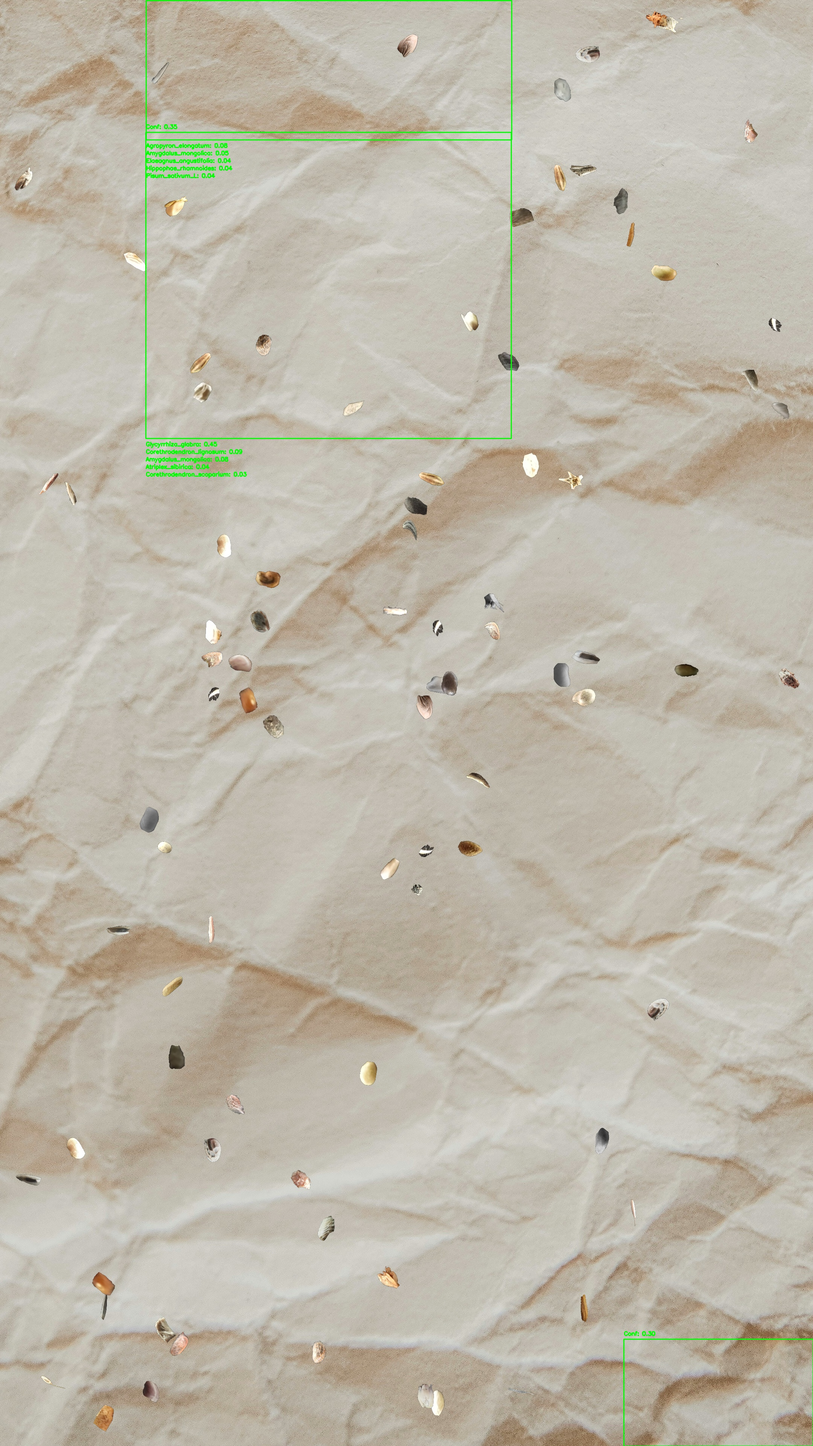
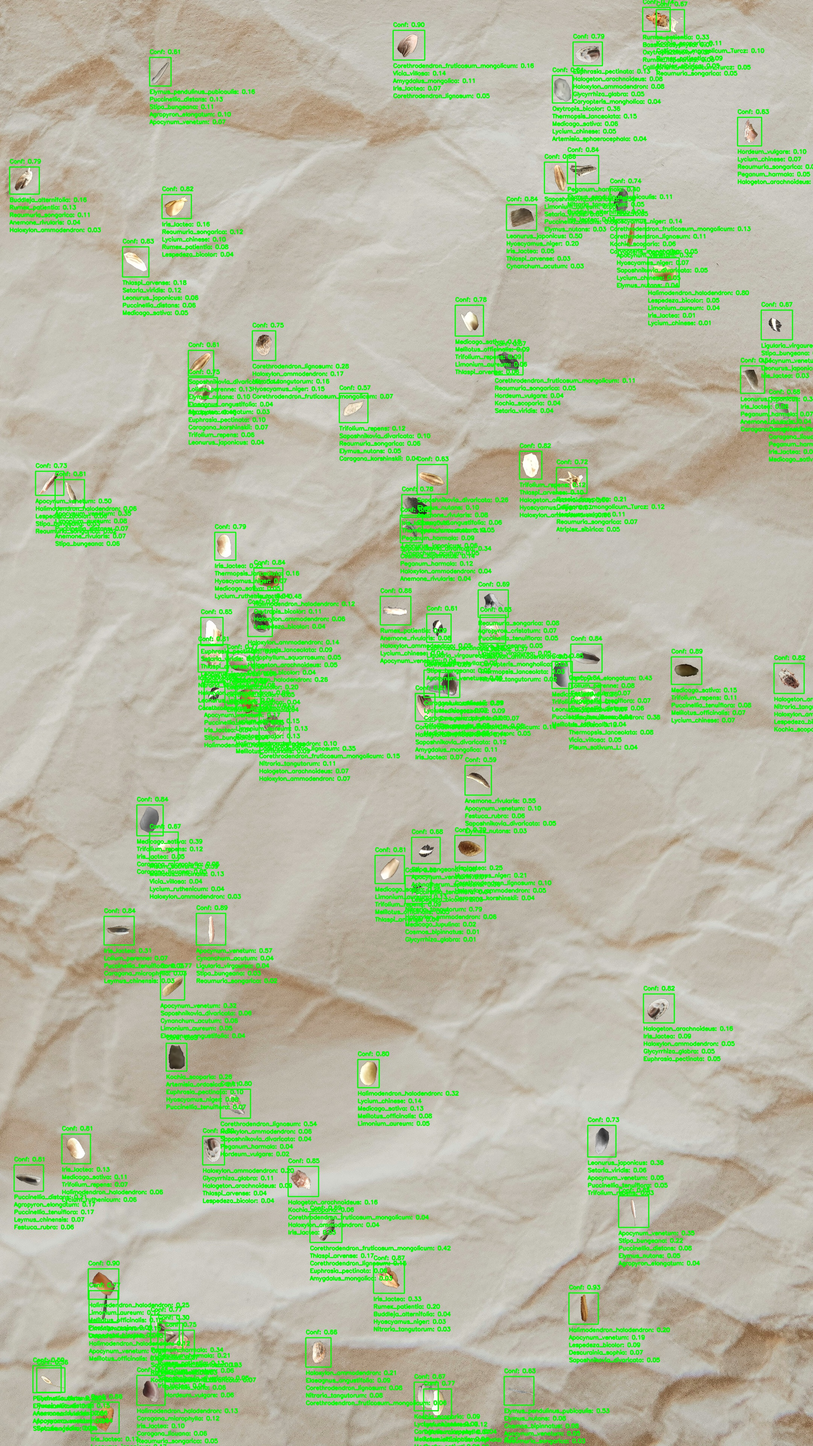
Pre-evaluation checkpoint

diff --git a/Pipeline.py b/Pipeline.py
@@ -13,63 +13,63 @@ def main():
     # dls.load_data_classification(0.9, 0.1001)# the test set wont be used so it does not matter what we set it to
     # dls.load_data_detection(0.8, 0.05, 0.15)# the test set wont be used so it does not matter what we set it to
     # mls = ModelLoadingStation()
-    # mls.load_new_classification_model()
+    # # mls.load_new_classification_model()
     # mls.load_new_detection_standard_model()
 
-    #print("Training")
-    #ts = TrainingStation(None, mls.cur_classification_model)
-    #ts = TrainingStation(mls.cur_detection_model, None)
-    #ts.trainClassification(dls.dl_train_classification, dls.dl_validate_classification, dls.dl_test_classification, dls.num_classes)
-    #ts.trainDetection()
-    #print("Pipeline finished")
+    # print("Training")
+    # ts = TrainingStation(None, mls.cur_classification_model)
+    # ts = TrainingStation(mls.cur_detection_model, None)
+    # #ts.trainClassification(dls.dl_train_classification, dls.dl_validate_classification, dls.dl_test_classification, dls.num_classes)
+    # #ts.trainDetection()
+    # print("Pipeline finished")
 
-    # print("Starting inference pipeline")
-    # print("looking for input image")
-    # dls = DataLoadingStation()
-    # dls.load_data_classification(0.9, 0.1001)# this is needed just to get the indexed classes
-    # image = dls.load_inference_image("testInput.jpg")
-    # mls = ModelLoadingStation()
-    # mls.load_saved_classification_model()
-    # mls.load_saved_detection_model()
-
-    #print("Running inference")
-    #inferS = InferenceStation()
-    #print(inferS.inferOnClassification(image, mls.cur_classification_model, dls))
-    #inferS.inferOnDetection("testInput.jpg", mls.cur_detection_model)
-    #inferS.inferOnCombined("data/syntheticData/images/test/image5901588_0.jpg", mls.cur_detection_model, mls.cur_classification_model, dls, "testSyntheticOne.jpg")
-    #inferS.inferOnSynthetic("data/syntheticData/data.yaml",mls.cur_detection_model, mls.cur_classification_model, dls, "testOutputSynthetic.jpg")
-
-
-
-    print("Loading data")
+    print("Starting inference pipeline")
+    print("looking for input image")
     dls = DataLoadingStation()
-    dls.load_data_classification(0.9, 0.1001)# the test set wont be used so it does not matter what we set it to
-    #dls.load_data_detection(0.8, 0.05, 0.15)# the test set wont be used so it does not matter what we set it to
+    dls.load_data_classification(0.9, 0.1001)# this is needed just to get the indexed classes
+    #image = dls.load_inference_image("testInput.jpg")
     mls = ModelLoadingStation()
     mls.load_saved_classification_model()
-    #mls.load_saved_detection_model()
+    mls.load_saved_detection_model(4) #2 is 2500x2500, 3 is 1600x1600, 4 is 1280x1280 and 5 is 960x960
 
+    print("Running inference")
     inferS = InferenceStation()
-    print("Analyzing performance")
+    # print(inferS.inferOnClassification(image, mls.cur_classification_model, dls))
+    # inferS.inferOnDetection("testInput.jpg", mls.cur_detection_model)
+    #inferS.inferOnCombined("data/syntheticData/images/test/image5901588_0.jpg", mls.cur_detection_model, mls.cur_classification_model, dls, "testSyntheticOne.jpg")
+    # inferS.inferOnSynthetic("data/syntheticData/data.yaml",mls.cur_detection_model, mls.cur_classification_model, dls, "testOutputSynthetic.jpg")
+
+
+
+    # print("Loading data")
+    # dls = DataLoadingStation()
+    # dls.load_data_classification(0.9, 0.1001)# the test set wont be used so it does not matter what we set it to
+    # #dls.load_data_detection(0.8, 0.05, 0.15)# the test set wont be used so it does not matter what we set it to
+    # mls = ModelLoadingStation()
+    # mls.load_saved_classification_model()
+    # #mls.load_saved_detection_model()
+
+    # inferS = InferenceStation()
+    # print("Analyzing performance")
     #t test for classification and detection on n images of their respective datasets
     # check_stats_classification(mls.cur_classification_model, dls, inferS, "cpu")
 
-    print("Quantizing")
-    #quantize for various dtypes
-    quantS = QuantStation(dls, inferS)
-    quantS.set_class_model(mls.cur_classification_model)
-    check_stats_classification(mls.cur_classification_model, dls, inferS, "cpu")
-    print_size_of_model(mls.cur_classification_model)
-    # #quantize both dynamically and statically for int8
-    quantized_temp = quantS.dynamic_quant_class(mls.load_retrieve_saved_class_model(),dtype = torch.qint8)
-    print("Quantized for int8 dynamically...")
-    check_stats_classification(quantized_temp, dls, inferS, "cpu")
-    print_size_of_model(quantized_temp)
+    # print("Quantizing")
+    # #quantize for various dtypes
+    # quantS = QuantStation(dls, inferS)
+    # quantS.set_class_model(mls.cur_classification_model)
+    # check_stats_classification(mls.cur_classification_model, dls, inferS, "cpu")
+    # print_size_of_model(mls.cur_classification_model)
+    # # #quantize both dynamically and statically for int8
+    # quantized_temp = quantS.dynamic_quant_class(mls.load_retrieve_saved_class_model(),dtype = torch.qint8)
+    # print("Quantized for int8 dynamically...")
+    # check_stats_classification(quantized_temp, dls, inferS, "cpu")
+    # print_size_of_model(quantized_temp)
 
-    quantized_temp = quantS.static_quant_class(mls.load_retrieve_saved_class_model(), dls)
-    print("Quantized for int8 statically...")
-    check_stats_classification(quantized_temp, dls, inferS, "cpu")
-    print_size_of_model(quantized_temp)
+    # quantized_temp = quantS.static_quant_class(mls.load_retrieve_saved_class_model(), dls)
+    # print("Quantized for int8 statically...")
+    # check_stats_classification(quantized_temp, dls, inferS, "cpu")
+    # print_size_of_model(quantized_temp)
 
     #print_param_types(quantized_temp)
 

diff --git a/InferenceStation.py b/InferenceStation.py
@@ -8,9 +8,11 @@ from DataLoadingStation import DataLoadingStation
 from torchvision import io
 import cv2
 from sklearn.metrics import precision_score, recall_score
+from timeit import default_timer as timer 
 
 class InferenceStation():
     device = "cpu"
+    record_mem_use = False
     def __init__(self):
         self.device = torch.device("cuda" if torch.cuda.is_available() else "cpu")
 
@@ -25,19 +27,21 @@ class InferenceStation():
             T.Resize((192, 272)),
             T.Normalize(mean=[0.485, 0.456, 0.406], std=[0.229, 0.224, 0.225])
         ])
-        #print("Infering on classification")
-        #print("Image shape: " + str(image.shape))
+
         with torch.no_grad():
-            #print("Image shape prior to crop: " + str(image.shape))
             imgTemp = transform(image.to(torch.float32)/255.0).unsqueeze(0)
             imgTemp = imgTemp.to(self.device)
+            if self.record_mem_use: 
+                print(f"Before inference on ViT on a seed: {torch.cuda.memory_allocated() / 1024**2:.2f} MB")
             output = model(imgTemp)
+            if self.record_mem_use: 
+                print(f"After inference on ViT on a seed: {torch.cuda.memory_allocated() / 1024**2:.2f} MB")
+                self.record_mem_use = False
             #map the existing classes to the output to see which class names are predicted
             classNameIndices = dls.dataset_classification.indexed_classes
             classNamePredictions = []
             output = torch.nn.functional.softmax(output, dim=1).cpu()
             top5 = (output.topk(5, dim=1).indices[0], output.topk(5, dim=1).values[0])
-            #print("Top 5 classes: " + str(top5))
 
             for i, p in zip(top5[0], top5[1]):
                 reverse_classNameIndices = {v: k for k, v in classNameIndices.items()}
@@ -73,7 +77,6 @@ class InferenceStation():
         model.eval()
         for images, labels in dls.dl_validate_classification:
             #need to convert the images to the correct input dtype if the model was quantized
-            #images = images.to(input_dtype)#----------------------------------------------------------------Check that this makes sense
             images, labels = images.to(device), labels.to(device)
             with torch.no_grad():#, torch.autocast(device_type='cuda', dtype=torch.float16):  # Disable gradient computation for validation
                 outputs = model(images)
@@ -124,7 +127,11 @@ class InferenceStation():
         rescaleFactorY = 1
         imageCV2 = cv2.imread(image_path)
         imageWidth, imageHeight, _ = imageCV2.shape
-
+        print("Image dimensions: " + str(imageWidth) + " " + str(imageHeight))
+        start_time = timer()
+        
+        self.record_mem_use = True#prepare to record memory usage on the ViT for one seed - it's the same for all seeds and does not stack
+        
         if imageWidth < 1000 or imageHeight < 1000:
             imageCV2 = cv2.resize(imageCV2, (1000, 1000))
             rescaleFactorX = imageWidth / 1000
@@ -132,8 +139,14 @@ class InferenceStation():
             #print("Rescale factors: " + str(rescaleFactorX) + " " + str(rescaleFactorY))
 
         with torch.no_grad():
+            if(self.device.type == "cuda"):
+                torch.cuda.synchronize()
+                print(f"Before inference on YOLO: {torch.cuda.memory_allocated() / 1024**2:.2f} MB")
             #first, create bounding boxes from the image
             output = modelDetect(image_path)
+            if(self.device.type == "cuda"):
+                torch.cuda.synchronize()
+                print(f"After inference on YOLO: {torch.cuda.memory_allocated() / 1024**2:.2f} MB")
             #since the input image resolution could've been resized to fit YOLO, normalized coordinates of boxes are used
             detectedSeeds = []
             for result in output:
@@ -149,9 +162,8 @@ class InferenceStation():
                         "right" : xyxyn[i][2].item(),
                         "confidence": confs[i]
                     }
-                    if(xyxyn[i][3].item() - xyxyn[i][1].item() > 0.05 and xyxyn[i][2].item() - xyxyn[i][0].item() > 0.05):
-                        print("appended a seed crop: " + str(seedCrop))
-                        detectedSeeds.append(seedCrop)
+                    #if(xyxyn[i][3].item() - xyxyn[i][1].item() > 0.05 and xyxyn[i][2].item() - xyxyn[i][0].item() > 0.05): #this may occasionally be needed if the YOLO misbehaves
+                    detectedSeeds.append(seedCrop)
                 
                 image = io.decode_image(image_path,  mode="RGB")
                 #now, crop out another image from the original image and classify it - this is done for every detected seed
@@ -165,6 +177,7 @@ class InferenceStation():
                     h = float(seedCrop["bottom"]) * image.shape[1] - y
                     seed = image[:, int(y):int(y+h), int(x):int(x+w)]
                     #classify the seed
+                    
                     preds = self.inferOnClassification(seed, modelClass, dls)
                     #draw the box, confidence and labels for the seed
                     cv2.rectangle(imageCV2, (round(x/rescaleFactorX), round(y/rescaleFactorY)), (round((x+w)/rescaleFactorX), round((y+h)/rescaleFactorY)), (0, 255, 0), 2)
@@ -173,6 +186,10 @@ class InferenceStation():
                         cv2.putText(imageCV2, f"{preds[j][0]}: {preds[j][1]:.02f}", (round(x/rescaleFactorX), round((y+h)/rescaleFactorY) + (j+1) * 20), cv2.FONT_HERSHEY_SIMPLEX, 0.5, (0, 255, 0), 2)
 
                 cv2.imwrite(outputPath, imageCV2)
+
+        self.record_mem_use = True
+        end_time = timer()
+        print("Total infrence time: " + str(end_time - start_time))
 
 
 

diff --git a/TrainingStation.py b/TrainingStation.py
@@ -14,8 +14,8 @@ class TrainingStation:
     
     num_epochs_detection = 1
     num_epochs_classification = 3
-    batch_size_detection = 2
-    num_workers = 4
+    batch_size_detection = 10
+    num_workers = 12
     
 
     #variables for YOLO training

diff --git a/AnalyticsModule.py b/AnalyticsModule.py
@@ -39,3 +39,4 @@ def print_param_types(model):
         #else:
             #print(f"{name}: {tensor}") #this may cause an explosion
     
+
